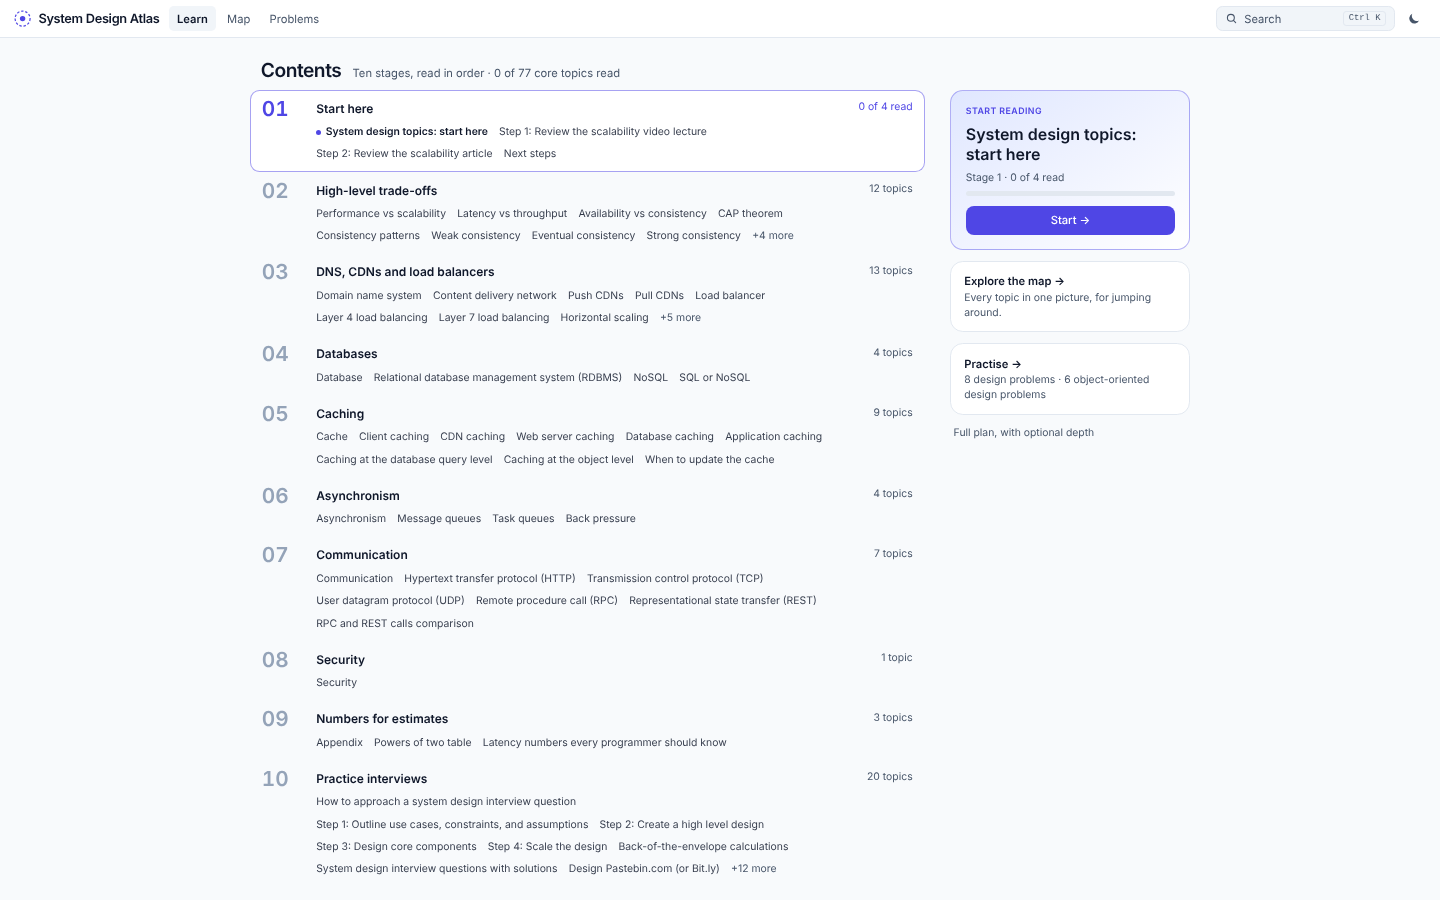
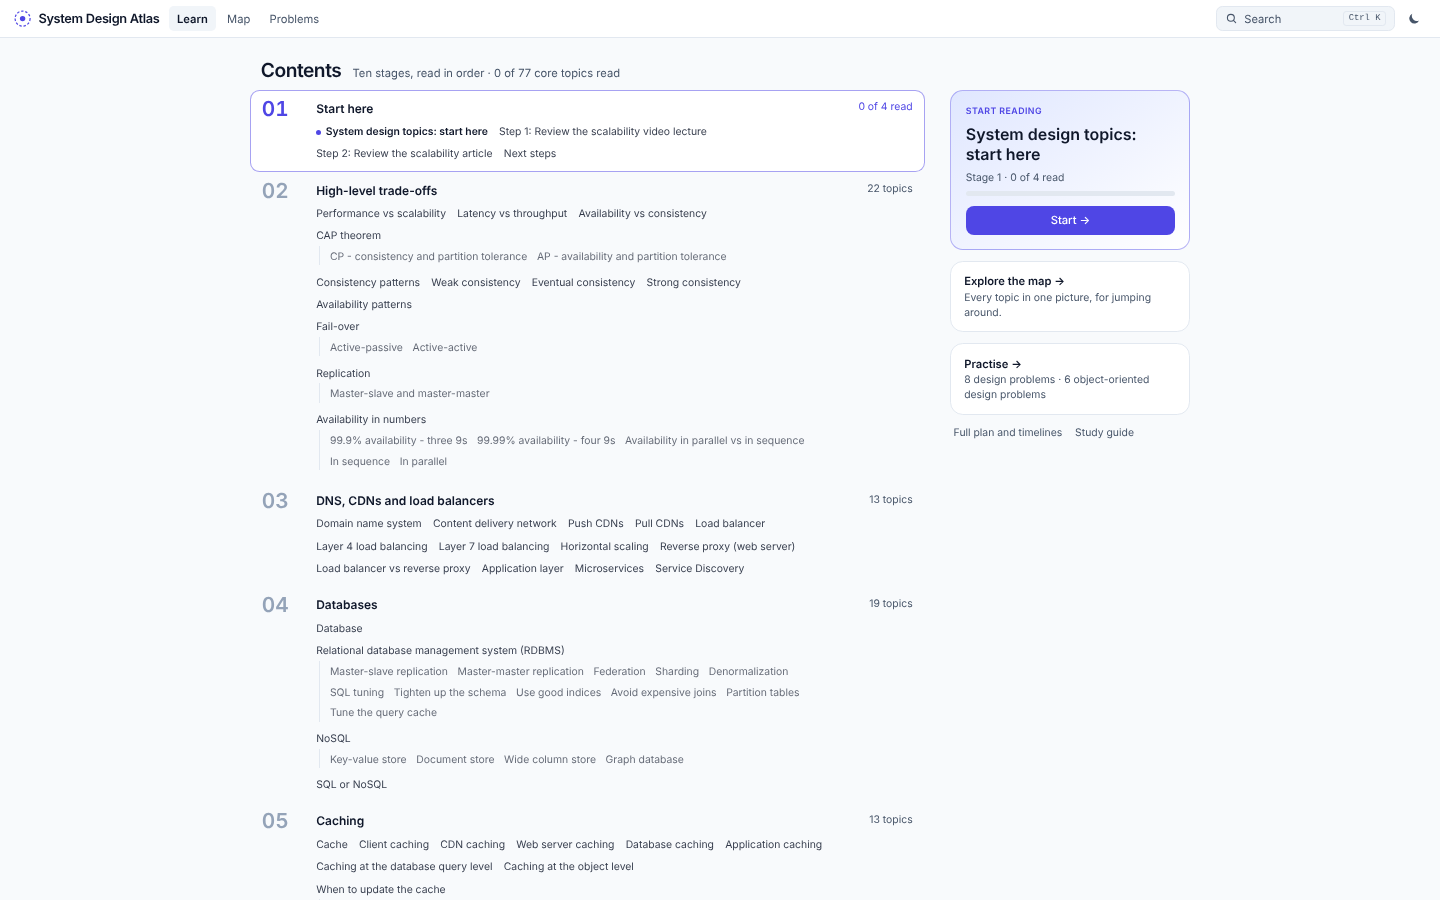
List every topic on the home page
The contents page showed only core topics and cut long stages at +N
more. It now lists all topics on the path, detailed ones indented under
their core topic, links the study guide, and counts all topics per
stage. A new test checks the home page links every path topic.

Claude-Session: https://claude.ai/code/session_012hVuGroYHB7edP1rEvEZnx

diff --git a/src/pages/HomePage.tsx b/src/pages/HomePage.tsx
@@ -1,12 +1,27 @@
-import { useState } from 'react'
 import { Link } from 'react-router-dom'
 import { oodRefs, solutionRefs, topics } from '../lib/content.ts'
 import { VIA_PATH } from '../lib/journey.ts'
 import { PATH, PATH_ORDER, pathPosition, type PathStage } from '../lib/learningPath.ts'
 import { resetProgress, usePathCursor, useRead } from '../lib/progress.ts'
 
-/** Topics shown per stage before "+N more". */
-const SHOWN = 8
+/**
+ * A stage's topics in reading order, each core topic with the detailed topics under it (any depth). Every topic on
+ * the path appears once; tests/home.test.ts checks the home page links them all.
+ */
+function stageGroups(stage: PathStage): { core: string; deeper: string[] }[] {
+  const core = new Set(stage.breadth)
+  const coreOf = (id: string): string | undefined => {
+    for (let p = topics.nodes[id].parentId; p; p = topics.nodes[p].parentId) if (core.has(p)) return p
+  }
+  const deeper = new Map(stage.breadth.map((id) => [id, [] as string[]]))
+  const loose: string[] = []
+  for (const id of [...stage.depth].sort((a, b) => topics.nodes[a].order - topics.nodes[b].order)) {
+    const c = coreOf(id)
+    if (c) deeper.get(c)!.push(id)
+    else loose.push(id)
+  }
+  return [...stage.breadth.map((id) => ({ core: id, deeper: deeper.get(id)! })), ...loose.map((id) => ({ core: id, deeper: [] }))]
+}
 
 /** The home page: the learning path as a book's contents page, with a Continue card beside it. */
 export function HomePage() {
@@ -52,7 +67,10 @@ export function HomePage() {
           </Link>
           <div className="flex flex-wrap items-center gap-x-4 gap-y-1 px-1 text-ui text-muted">
             <Link to="/path" className="hover:text-ink hover:underline">
-              Full plan, with optional depth
+              Full plan and timelines
+            </Link>
+            <Link to="/topic/study-guide" className="hover:text-ink hover:underline">
+              Study guide
             </Link>
             {read.size > 0 && (
               <button type="button" onClick={resetProgress} className="hover:text-ink hover:underline">
@@ -94,21 +112,43 @@ function ContinueCard({ id, started }: { id: string; started: boolean }) {
   )
 }
 
+function TopicLink({ id, read, next, small }: { id: string; read: ReadonlySet<string>; next: string; small?: boolean }) {
+  const isRead = read.has(id)
+  const isNext = id === next
+  return (
+    <Link
+      to={`/topic/${id}`}
+      state={VIA_PATH}
+      className={`inline-flex items-center gap-1.5 text-ui hover:text-link hover:underline ${isNext ? 'font-semibold text-ink' : isRead ? 'text-muted' : small ? 'text-ink/65' : 'text-ink/85'}`}
+    >
+      {isRead ? (
+        <span className="text-ok" aria-label="read">
+          ✓
+        </span>
+      ) : isNext ? (
+        <span className="size-1.5 rounded-full bg-[var(--accent)]" aria-label="next" />
+      ) : null}
+      {topics.nodes[id].title}
+    </Link>
+  )
+}
+
 function Stage({ stage, read, next, current }: { stage: PathStage; read: ReadonlySet<string>; next: string; current: boolean }) {
-  const [open, setOpen] = useState(false)
   const ids = stage.breadth
   const done = ids.filter((id) => read.has(id)).length
   const complete = done === ids.length
-  const shown = open || ids.length <= SHOWN + 1 ? ids : ids.slice(0, SHOWN)
   const first = ids.find((id) => !read.has(id)) ?? ids[0]
+  const groups = stageGroups(stage)
+  const total = ids.length + stage.depth.length
+  // Progress counts the core topics, as everywhere else; the detailed ones are optional reading.
   const status = complete ? (
     <span className="text-ok">Done</span>
   ) : done > 0 || current ? (
     <span className="text-[var(--accent)]">
-      {done} of {ids.length} read
+      {done} of {ids.length} {stage.depth.length ? 'core ' : ''}read
     </span>
   ) : (
-    `${ids.length} topic${ids.length === 1 ? '' : 's'}`
+    `${total} topic${total === 1 ? '' : 's'}`
   )
   return (
     <li
@@ -126,35 +166,25 @@ function Stage({ stage, read, next, current }: { stage: PathStage; read: Readonl
           <span className="sr-only">Stage {stage.index + 1}: </span>
           {stage.title}
         </Link>
+        {/* Core topics flow inline; one with detailed topics gets a line of its own, with them indented under it. */}
         <ul className="mt-1 flex flex-wrap gap-x-3.5 gap-y-1">
-          {shown.map((id) => {
-            const isRead = read.has(id)
-            const isNext = id === next
-            return (
-              <li key={id}>
-                <Link
-                  to={`/topic/${id}`}
-                  state={VIA_PATH}
-                  className={`inline-flex items-center gap-1.5 text-ui hover:text-link hover:underline ${isNext ? 'font-semibold text-ink' : isRead ? 'text-muted' : 'text-ink/85'}`}
-                >
-                  {isRead ? (
-                    <span className="text-ok" aria-label="read">
-                      ✓
-                    </span>
-                  ) : isNext ? (
-                    <span className="size-1.5 rounded-full bg-[var(--accent)]" aria-label="next" />
-                  ) : null}
-                  {topics.nodes[id].title}
-                </Link>
+          {groups.map(({ core, deeper }) =>
+            deeper.length ? (
+              <li key={core} className="basis-full">
+                <TopicLink id={core} read={read} next={next} />
+                <ul className="mt-0.5 mb-1 ml-1 flex flex-wrap gap-x-3 gap-y-0.5 border-l border-line pl-3" aria-label={`Inside ${topics.nodes[core].title}`}>
+                  {deeper.map((id) => (
+                    <li key={id}>
+                      <TopicLink id={id} read={read} next={next} small />
+                    </li>
+                  ))}
+                </ul>
               </li>
-            )
-          })}
-          {shown.length < ids.length && (
-            <li>
-              <button type="button" onClick={() => setOpen(true)} className="text-ui text-muted hover:text-ink hover:underline">
-                +{ids.length - shown.length} more
-              </button>
-            </li>
+            ) : (
+              <li key={core}>
+                <TopicLink id={core} read={read} next={next} />
+              </li>
+            ),
           )}
         </ul>
       </div>

diff --git a/tests/home.test.ts b/tests/home.test.ts
@@ -1,0 +1,13 @@
+import { describe, expect, it } from 'vitest'
+import { inspect } from './helpers/render.tsx'
+import { PATH } from '../src/lib/learningPath.ts'
+
+describe('home page', () => {
+  it('lists every topic on the learning path, core and detailed', () => {
+    const home = inspect('/')
+    const ids = PATH.flatMap((s) => [...s.breadth, ...s.depth])
+    const missing = ids.filter((id) => !home.attrs.has(`/topic/${id}`))
+    expect(missing).toEqual([])
+    expect(home.attrs.has('/topic/study-guide')).toBe(true)
+  })
+})

diff --git a/docs/PLAN.md b/docs/PLAN.md
@@ -1061,3 +1061,14 @@ The layout was chosen from mockups on the design canvas.
 - Fixed in passing: on the DNS animation, "not in my cache" overlapped the "IP shown is a documentation example"
   note; the note now sits in the empty top-left corner.
 - Screenshots: `docs/screenshots/home-contents*.png`, `fs-*.png`.
+
+### Home page lists every topic (reader feedback)
+
+- The contents page showed only each stage's core topics, so detailed ones (Sharding, Master-slave replication, the
+  NoSQL store types, the cache update strategies and so on) were missing from it, and long stages were cut off at
+  "+N more". It now lists every topic on the path: core topics flow inline, and a core topic with detailed topics
+  under it gets its own line with them indented beneath it, at any depth. Nothing is collapsed. Study guide, the only
+  topic not on the path, is linked beside the contents.
+- Stage counts now include the detailed topics ("19 topics" for Databases); progress still counts core topics, and
+  says "core" where a stage has detailed ones ("4 of 13 core read").
+- `tests/home.test.ts` checks that the home page links every topic on the path, plus the study guide.
